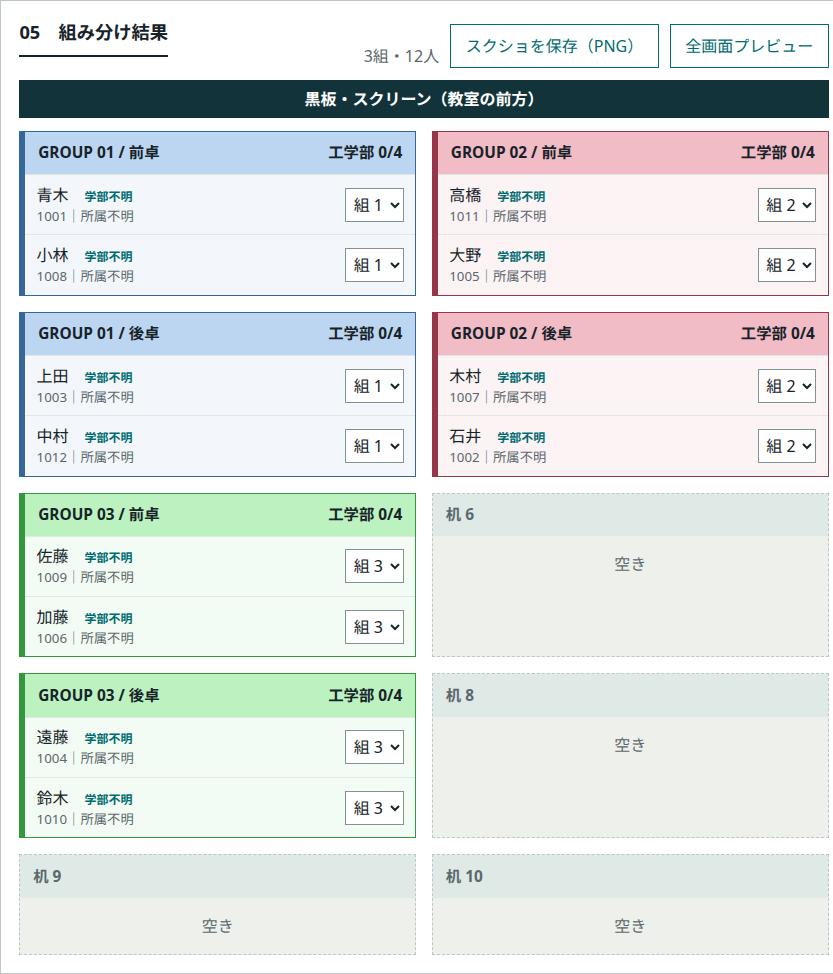
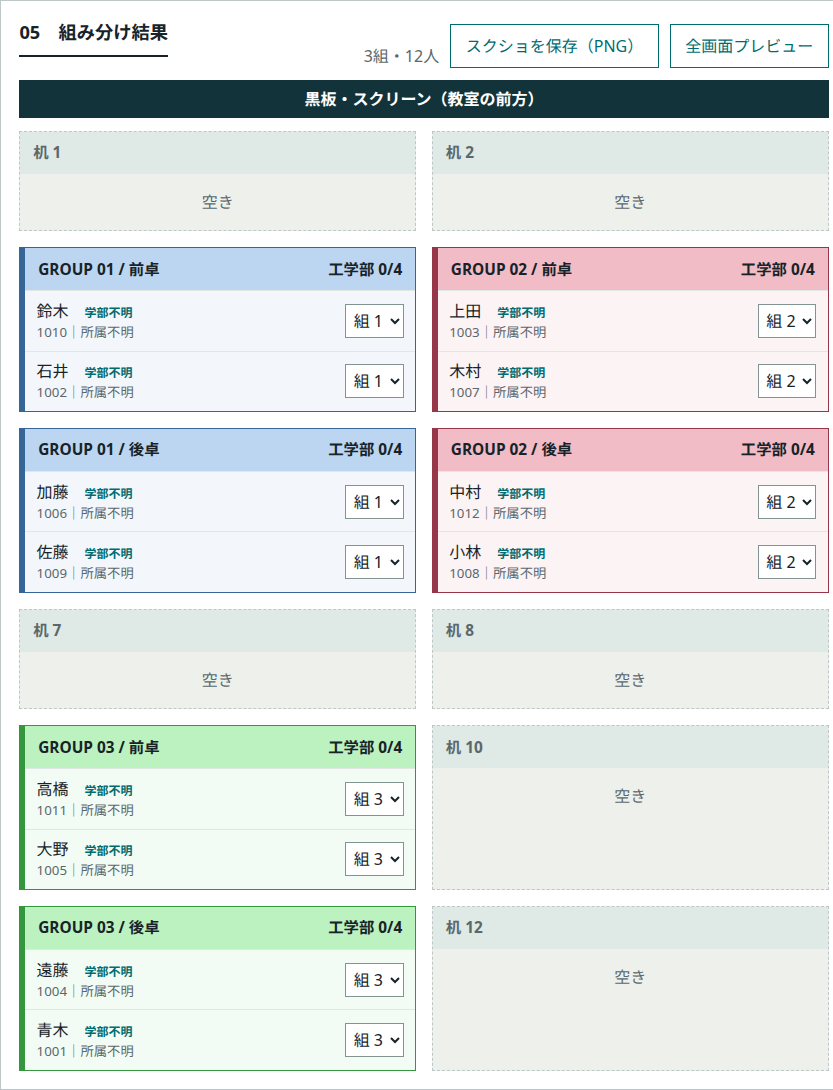
最前列と余裕がある場合の組間を空ける

diff --git a/index.html b/index.html
@@ -24,7 +24,7 @@
 <div class="field"><label for="balanceMode">所属による分散</label><select id="balanceMode"><option value="off">なし</option><option value="engineering">工学部を分散</option></select></div><div class="field"><span class="label">予定グループ数</span><strong id="plannedGroups">—</strong></div><div class="field wide"><label for="attendanceMode">対象者</label><select id="attendanceMode"><option value="present">出・遅・早のみ</option><option value="nonabsent">出・遅・早・公欠</option><option value="all">マスター全員</option></select></div></div><div class="row" style="margin-top:.8rem"><div class="field"><label for="tableColumns">机の横の列数</label><input id="tableColumns" type="number" min="1" max="10" step="1" value="6"></div><div class="field"><label for="tableRows">机の前後の行数</label><input id="tableRows" type="number" min="1" max="20" step="1" value="6"></div></div><p id="layoutStatus" class="status" role="status"></p><label class="checkline"><input id="diceToggle" type="checkbox" checked> 約2.5秒のダイス演出を表示</label><p class="subtle"><span id="groupingHelp"></span></p></section>
 </div>
 <section class="panel"><div class="topline"><h2>03　学生マスター <span id="masterCount"></span></h2><button id="exportMaster" class="secondary">マスターCSVを保存</button></div><p id="masterHelp" class="subtle"></p><div class="field" style="margin-bottom:.8rem"><label for="masterFile">保存したマスターCSVを読み込む</label><input id="masterFile" type="file" accept=".csv,text/csv"></div><form id="studentForm" class="row"><div class="field"><label for="studentId">学籍番号</label><input id="studentId" required inputmode="numeric" autocomplete="off"></div><div class="field"><label for="studentName">氏名</label><input id="studentName" required autocomplete="off"></div><div class="field wide"><label for="studentDept">所属（任意）</label><input id="studentDept" placeholder="不明なら空欄で登録できます"></div><button type="submit">追加・更新</button><button id="clearForm" type="button" class="secondary">入力を消す</button></form><div id="masterStatus" class="status" role="status"></div><details><summary>学生一覧・修正</summary><div class="roster"><table><thead><tr><th>学籍番号</th><th>氏名</th><th>所属</th><th>操作</th></tr></thead><tbody id="masterRows"></tbody></table></div></details></section>
-<section class="panel" id="generatePanel"><h2>04　実行・保存</h2><p class="subtle">対象者を確認してから生成してください。教室の前方から順に配置します。</p><div class="actions"><button id="generate" disabled>グループを生成</button><button id="exportGroups" class="secondary" disabled>結果CSVを保存</button></div><div id="generateStatus" class="status" role="status"></div></section><section class="panel" id="resultsPanel"><div class="topline"><h2>05　組み分け結果</h2><div class="row"><span id="resultSummary" class="subtle">まだ生成されていません</span><button id="saveImage" type="button" class="secondary" disabled>スクショを保存（PNG）</button><button id="previewButton" class="secondary" disabled>全画面プレビュー</button></div></div><p id="imageStatus" class="status" role="status"></p><div id="resultsFront" class="classroomFront">黒板・スクリーン（教室の前方）</div><div class="classroomScroll"><div id="groups" class="groups"></div></div></section>
+<section class="panel" id="generatePanel"><h2>04　実行・保存</h2><p class="subtle">最前列を空けて2行目から配置します。机に余裕があれば、前後に並ぶ組の間に空き行を設けます。</p><div class="actions"><button id="generate" disabled>グループを生成</button><button id="exportGroups" class="secondary" disabled>結果CSVを保存</button></div><div id="generateStatus" class="status" role="status"></div></section><section class="panel" id="resultsPanel"><div class="topline"><h2>05　組み分け結果</h2><div class="row"><span id="resultSummary" class="subtle">まだ生成されていません</span><button id="saveImage" type="button" class="secondary" disabled>スクショを保存（PNG）</button><button id="previewButton" class="secondary" disabled>全画面プレビュー</button></div></div><p id="imageStatus" class="status" role="status"></p><div id="resultsFront" class="classroomFront">黒板・スクリーン（教室の前方）</div><div class="classroomScroll"><div id="groups" class="groups"></div></div></section>
 </main><div id="dice" class="dice" hidden aria-live="off"><div id="dieFace" class="face">⚄</div><p>グループを組み分けています…</p></div>
 <div id="presentation" class="presentation" hidden role="dialog" aria-label="グループ分け全画面プレビュー"><div class="presentationHead"><strong>授業内グループ分け</strong><span id="presentationSummary"></span><button id="closePreview" type="button">閉じる ×</button></div><div class="classroomFront">黒板・スクリーン（教室の前方）</div><div id="presentationGrid" class="presentationGrid"></div></div>
 <script id="seed" type="application/json">[]</script>
@@ -62,7 +62,8 @@ function renderMaster(){const m=master();$('masterCount').textContent=`（${m.le
 function classroomSettings(){
  const cols=Number($('tableColumns').value),rows=Number($('tableRows').value);
  if(!Number.isInteger(cols)||cols<1||cols>10||!Number.isInteger(rows)||rows<1||rows>20)throw Error('横は1〜10列、前後は1〜20行の整数で設定してください。');
- return {cols,rows,desks:cols*rows,pairs:cols*Math.floor(rows/2)}
+ const usableRows=rows-1;
+ return {cols,rows,usableRows,desks:cols*usableRows,pairs:cols*Math.floor(usableRows/2)}
 }
 const preferredSize=()=>Number($('groupSize').value);
 const balanceEngineering=()=>$('balanceMode').value==='engineering';
@@ -70,6 +71,7 @@ const balanceEngineering=()=>$('balanceMode').value==='engineering';
 function groupPlan(n){
  if(!n)return [];
  const {desks,pairs}=classroomSettings();
+ if(n>3*desks)return null;
  const preferred=preferredSize();
  if(preferred===2){
   if(Math.ceil(n/2)>desks)return null;
@@ -99,8 +101,8 @@ function checkLayout(){
   const used=plan?plan.reduce((sum,size)=>sum+(size===4?2:1),0):0;
   const breakdown=plan?[4,3,2,1].map(size=>[size,plan.filter(x=>x===size).length]).filter(([,count])=>count).map(([size,count])=>`${size}人組 ${count}`).join('・'):'';
   const summary=!enough
-   ? (n===1&&preferredSize()===3?'組み分けには2人以上必要です。':`${cols}列 × ${rows}行＝${desks}卓では${n}人を配置できません。机の列数か行数を増やしてください。`)
-   : `${cols}列 × ${rows}行＝${desks}卓。${n?`${n}人を${breakdown}に分け、${used}卓を使用します。`:''}`;
+   ? (n===1&&preferredSize()===3?'組み分けには2人以上必要です。':`最前列を空けると、使える机${desks}卓では${n}人を配置できません。机の列数か行数を増やしてください。`)
+   : `${cols}列 × ${rows}行。最前列を除く${desks}卓に配置できます。${n?`${n}人を${breakdown}に分け、${used}卓を使用します。`:''}`;
   setStatus('layoutStatus',summary,enough?'':'error');
   return enough
  }catch(err){$('generate').disabled=true;setStatus('layoutStatus',err.message,'error');return false}
@@ -149,19 +151,40 @@ function arrange(people,sizes){
  place(eng);place(other);return bins
 }
 function deskLayout(){
- const {cols,desks,pairs}=classroomSettings(),layout=Array(desks).fill(null);
+ const {cols,rows,usableRows,desks,pairs}=classroomSettings(),layout=Array(cols*rows).fill(null);
  let pairIndex=0;
  groups.forEach((group,groupIndex)=>{
   if(group.length!==4)return;
   if(pairIndex>=pairs)throw Error('4人組を置く前後の机が足りません');
-  const front=Math.floor(pairIndex/cols)*2*cols+pairIndex%cols;
+  const front=(1+Math.floor(pairIndex/cols)*2)*cols+pairIndex%cols;
   layout[front]={groupIndex,part:'前卓',members:group.slice(0,2)};
   layout[front+cols]={groupIndex,part:'後卓',members:group.slice(2)};
   pairIndex++;
  });
- let deskIndex=0;
- groups.forEach((group,groupIndex)=>{if(group.length===4)return;while(deskIndex<desks&&layout[deskIndex])deskIndex++;if(deskIndex===desks)throw Error('机が足りません');layout[deskIndex]={groupIndex,part:'1卓',members:group};deskIndex++});
- return layout
+ let deskIndex=cols;
+ groups.forEach((group,groupIndex)=>{
+  if(group.length===4)return;
+  while(deskIndex<layout.length&&layout[deskIndex])deskIndex++;
+  if(deskIndex===layout.length)throw Error('最前列を空けると机が足りません');
+  layout[deskIndex++]={groupIndex,part:'1卓',members:group};
+ });
+
+ // 4人組の前卓と後卓は隣接させ、余った行はまとまりの間に入れる。
+ const pairedRows=2*Math.ceil(pairIndex/cols);
+ const lastRow=Math.floor(layout.findLastIndex(Boolean)/cols);
+ let spareRows=usableRows-lastRow;
+ if(spareRows<=0)return layout;
+ const spaced=Array(cols*rows).fill(null);
+ let targetRow=1;
+ for(let row=1;row<=lastRow;row++){
+  for(let col=0;col<cols;col++)spaced[targetRow*cols+col]=layout[row*cols+col];
+  targetRow++;
+  if(spareRows>0&&row<lastRow&&(row>=pairedRows||row%2===0)){
+   targetRow++;
+   spareRows--;
+  }
+ }
+ return spaced
 }
 function canMove(from,to){
  if(from===to)return true;

diff --git a/README.md b/README.md
@@ -2,16 +2,16 @@
 
 UNIPA（Universal Passport）の標準出席CSVに対応した、授業のグループと座席を決めるツールです。単一のHTMLで動作し、読み込んだCSVはブラウザ内で処理します。初期状態の学生マスターは空です。
 
-![4人組を前後2卓ずつ配置した結果画面。右上にスクショを保存（PNG）ボタン](docs/grouping-preview.png)
+![最前列と4人組の間を1行ずつ空けた結果画面。右上にスクショを保存（PNG）ボタン](docs/grouping-preview.png)
 
-*画面例はサンプルの学生12人を4人組3つに分けたものです。黒板の帯が教室の前方を示し、同じ色の前卓と後卓が1組、灰色のカードが空き卓です。右上のボタンから座席表をPNGで保存できます。*
+*画面例はサンプルの学生12人を4人組3つに分けたものです。黒板の帯が教室の前方を示し、同じ色の前卓と後卓が1組、灰色のカードが空き卓です。この例では最前列と、手前の2組と奥の1組の間に空き行があります。右上のボタンから座席表をPNGで保存できます。*
 
 ## 使い方
 
 1. [GitHub Pagesでツールを開きます](https://novelsavage.github.io/classroom-grouping-tool/)。オフラインで使う場合は [index.html](https://raw.githubusercontent.com/novelsavage/classroom-grouping-tool/main/index.html) を保存してブラウザで開きます。
 2. UNIPAから出力した出席CSVを読み込み、対象日を選びます。既定では出席・遅刻・早退の学生が対象です。公欠を含めたり、一覧のチェックで個別に調整したりできます。
 3. 授業の設定を選び、実際の教室に合わせて机の列数と行数を指定します。「優先する組の人数」と「所属による分散」は個別に変更できます。
-4. 「グループを生成」を押します。結果は全画面で投影でき、組番号と机の行・列・席番号をCSVに保存できます。「スクショを保存（PNG）」を押すと、黒板と座席表全体を1枚の画像として保存できます。
+4. 「グループを生成」を押します。最前列を空けて2行目から配置し、空き行を確保できる場合は前後の組の間を1行ずつ空けます。結果は全画面で投影でき、組番号と机の行・列・席番号をCSVに保存できます。「スクショを保存（PNG）」を押すと、黒板と座席表全体を1枚の画像として保存できます。
 
 | 授業の設定 | 組の人数 | 所属 | 配置 |
 | --- | --- | --- | --- |
